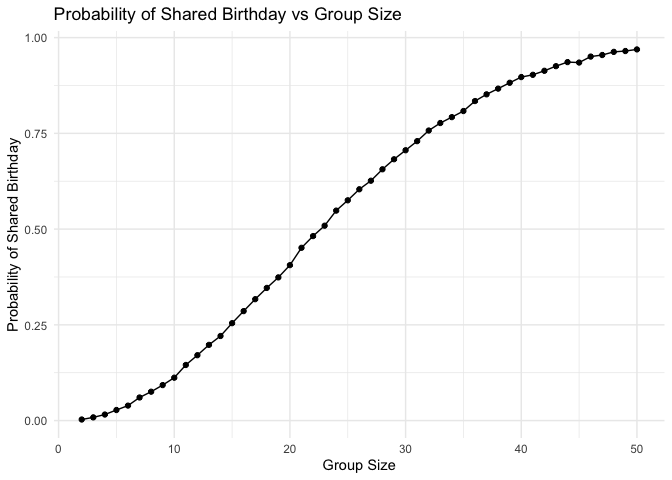
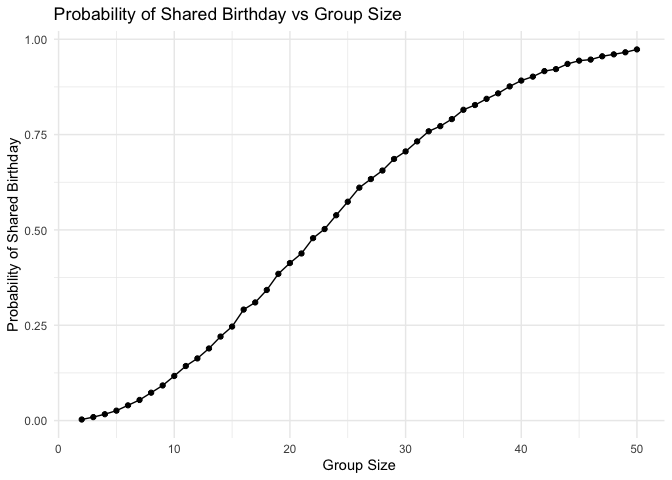
figure 1: relationship between effect size and power

diff --git a/p8105_hw5_jc6422.md b/p8105_hw5_jc6422.md
@@ -38,15 +38,15 @@ results
     ##    group_size probability
     ##         <int>       <dbl>
     ##  1          2      0.0028
-    ##  2          3      0.0084
-    ##  3          4      0.0158
-    ##  4          5      0.0276
-    ##  5          6      0.0391
-    ##  6          7      0.0603
-    ##  7          8      0.0754
-    ##  8          9      0.0927
-    ##  9         10      0.112 
-    ## 10         11      0.145 
+    ##  2          3      0.0091
+    ##  3          4      0.0167
+    ##  4          5      0.026 
+    ##  5          6      0.04  
+    ##  6          7      0.0541
+    ##  7          8      0.0731
+    ##  8          9      0.0921
+    ##  9         10      0.117 
+    ## 10         11      0.143 
     ## # ℹ 39 more rows
 
 Make a plot showing the probability as a function of group size.
@@ -102,3 +102,28 @@ for(i in 1:6){
   result = rbind(result, get_estimate_pvalue(mu = i))
 }
 ```
+
+Calculate the proportion of times the null was rejected.
+
+``` r
+df1 = result %>%
+  group_by(mu) %>%
+  summarise(proportion = mean(pvalue < 0.05))
+```
+
+Make a plot showing the relationship between effect size and power of
+the test.
+
+``` r
+ggplot(df1, aes(x = mu, y = proportion)) +
+  geom_point() +
+  geom_line() +
+  labs(x = "True Mean (μ)", y = "Power") +
+  ggtitle("Power vs Effect Size") +
+  theme_minimal()
+```
+
+![](p8105_hw5_jc6422_files/figure-gfm/unnamed-chunk-6-1.png)<!-- -->
+
+From this figure, we can observe that the larger the effect size, the
+higher the power.
